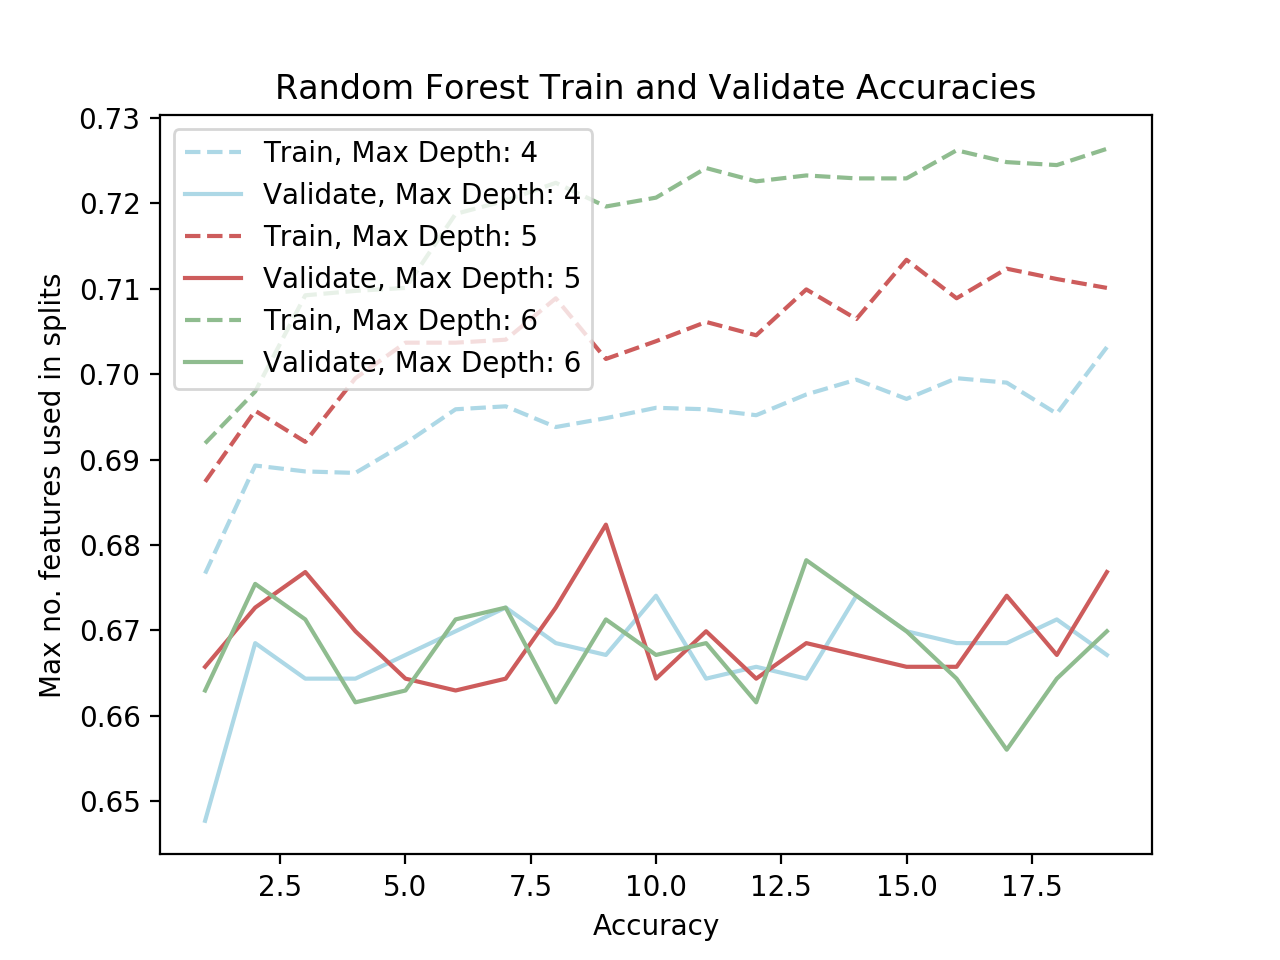
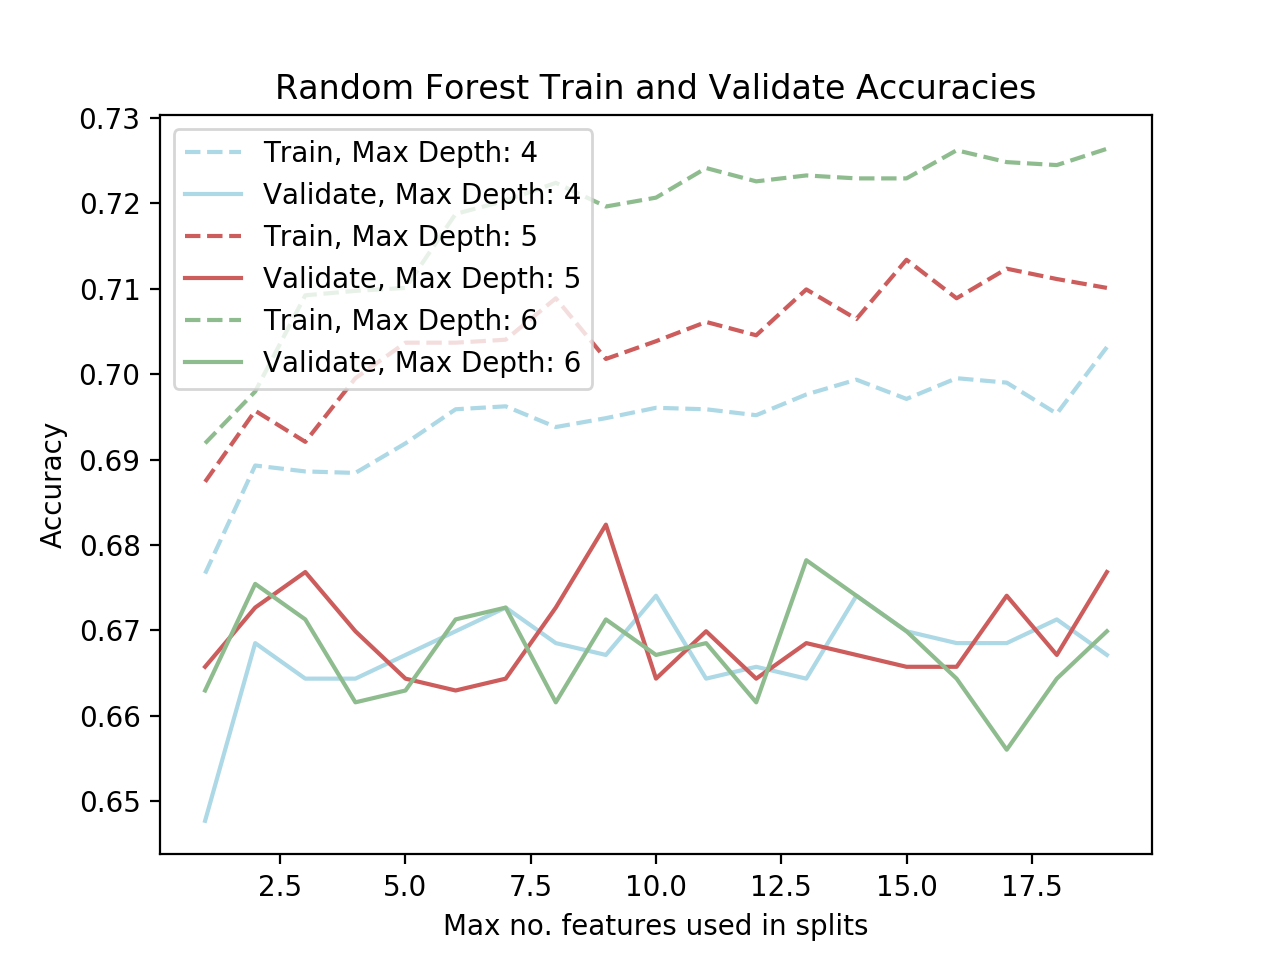
fixed random forest plot labelling. analyzed important coeffs for lin reg

Changed region(s): [[0.3438, 0.9375, 0.6875, 1.0], [0.0312, 0.2812, 0.0625, 0.5938], [0.0312, 0.625, 0.0625, 0.7188]]

diff --git a/random_forest.py b/random_forest.py
@@ -8,8 +8,8 @@ from matplotlib import pyplot as plt
 def train(X, y, max_depth=2, criterion='gini', max_features=None):
 	clf = RandomForestClassifier(n_estimators=10, max_depth=max_depth, criterion=criterion, random_state=0, max_features=max_features)
 	clf.fit(X, y)
-	print("Random Forest Trained. Feature Importances:")
-	print(clf.feature_importances_)
+	# print("Random Forest Trained. Feature Importances:")
+	# print(clf.feature_importances_)
 	return clf
 
 def predict(clf, x):
@@ -39,8 +39,8 @@ def plot_vs_max_depth(X_train, y_train, X_validate, y_validate):
 	plt.plot(range(1, max_max_depth+1), train_accuracies, color='r', label='Train')
 	plt.plot(range(1, max_max_depth+1), validation_accuracies, color='g', label='Validate')
 	plt.title("Random Forest Train and Validate Accuracies")
-	plt.xlabel("Accuracy")
-	plt.ylabel("Max Depth of Trees")
+	plt.ylabel("Accuracy")
+	plt.xlabel("Max Depth of Trees")
 	plt.legend(loc='upper left')
 	plt.show()
 
@@ -64,8 +64,8 @@ def plot_vs_max_depth_and_max_features(X_train, y_train, X_validate, y_validate)
 		plt.plot(range(1, max_max_features+1), train_accuracies, color=colors[i-min_max_depth], label=train_str, linestyle='dashed')
 		plt.plot(range(1, max_max_features+1), validation_accuracies, color=colors[i-min_max_depth], label=validate_str)
 	plt.title("Random Forest Train and Validate Accuracies")
-	plt.xlabel("Accuracy")
-	plt.ylabel("Max no. features used in splits")
+	plt.ylabel("Accuracy")
+	plt.xlabel("Max no. features used in splits")
 	plt.legend(loc='upper left')
 	plt.show()
 
@@ -74,11 +74,12 @@ def main():
 	X_validate, y_validate = utils.get_data(utils.VALIDATE_PATH)
 	X_test, y_test = utils.get_data(utils.TEST_PATH)
 
-	plot_vs_max_depth_and_max_features(X_train, y_train, X_validate, y_validate)
+	# plot_vs_max_depth_and_max_features(X_train, y_train, X_validate, y_validate)
+	# plot_vs_max_depth(X_train, y_train, X_validate, y_validate)
 
-	# clf = train(X_train, y_train, max_depth=5, max_features=2)
-	# print("Train Accuracy: ", evaluate(X_train, y_train, clf))
-	# print("Validation Accuracy: ", evaluate(X_validate, y_validate, clf))
+	clf = train(X_train, y_train, max_depth=5, max_features=None)
+	print("Train Accuracy: ", evaluate(X_train, y_train, clf))
+	print("Validation Accuracy: ", evaluate(X_validate, y_validate, clf))
 	# print("Test Accuracy: ", evaluate(X_test, y_test, clf))
 
 if __name__ == '__main__':

diff --git a/linear_regression.py b/linear_regression.py
@@ -4,6 +4,8 @@ from sklearn.linear_model import LinearRegression
 import math
 import utils
 
+RACE_BLIND = True
+
 def train(X, y):
 	return LinearRegression().fit(X, y)
 
@@ -22,17 +24,30 @@ def evaluate(X, y, reg):
 	return float(correct)/(correct + false)
 
 def main():
-	X_train, y_train = utils.get_data(utils.TRAIN_PATH)
-	X_validate, y_validate = utils.get_data(utils.VALIDATE_PATH)
-	X_test, y_test = utils.get_data(utils.TEST_PATH)
+	if RACE_BLIND:
+		X_train, y_train = utils.get_data(utils.TRAIN_PATH_RACE_BLIND)
+		X_validate, y_validate = utils.get_data(utils.VALIDATE_PATH_RACE_BLIND)
+		X_test, y_test = utils.get_data(utils.TEST_PATH_RACE_BLIND)
+		feature_names = utils.get_feature_names_race_blind()
+	else:
+		X_train, y_train = utils.get_data(utils.TRAIN_PATH)
+		X_validate, y_validate = utils.get_data(utils.VALIDATE_PATH)
+		X_test, y_test = utils.get_data(utils.TEST_PATH)
+		feature_names = utils.get_feature_names()
 
 	reg = train(X_train, y_train)
-	print("Coefficients:", reg.coef_)
+	print(feature_names)
+	coeff = reg.coef_
+	named_coeffs = []
+	for i in range(len(coeff)):
+		named_coeffs.append((feature_names[i], coeff[i]))
 
+	named_coeffs = sorted(named_coeffs, key=lambda pair: abs(pair[1]), reverse=True)
+	print("Coefficients:", named_coeffs)
 
 	print("Train Accuracy: ", evaluate(X_train, y_train, reg))
 	print("Validation Accuracy: ", evaluate(X_validate, y_validate, reg))
-	print("Test Accuracy: ", evaluate(X_test, y_test, reg))
+	# print("Test Accuracy: ", evaluate(X_test, y_test, reg))
 
 if __name__ == '__main__':
 	main()

diff --git a/utils.py b/utils.py
@@ -6,6 +6,10 @@ TRAIN_PATH = 'data/train.csv'
 VALIDATE_PATH = 'data/validate.csv'
 TEST_PATH = 'data/test.csv'
 
+TRAIN_PATH_RACE_BLIND = 'data/train_race_blind.csv'
+VALIDATE_PATH_RACE_BLIND = 'data/validate_race_blind.csv'
+TEST_PATH_RACE_BLIND = 'data/test_race_blind.csv'
+
 FEATURES_TO_IGNORE = ['id', 'first', 'last', 'c_charge_desc', 'r_charge_desc', 'vr_charge_degree', 'vr_charge_desc', 'event', 'age_cat', 'is_recid', 'v_decile_score', 'decile_score', 'vr_offense_date', 'is_violent_recid', 'r_offense_day_from_endjail', 'start', 'end', 'r_charge_degree']
 
 def trim_data(data_set):
@@ -31,6 +35,16 @@ def get_data(path):
 	set = csv.reader(file, delimiter=',')
 	array = np.array(list(set))[1:] # removes column names
 	return trim_data(array)
+
+def get_feature_names():
+	file = open(TRAIN_PATH, 'r')
+	set = csv.reader(file, delimiter=',')
+	return list(set)[0][len(FEATURES_TO_IGNORE):-1]
+
+def get_feature_names_race_blind():
+	file = open(TRAIN_PATH_RACE_BLIND, 'r')
+	set = csv.reader(file, delimiter=',')
+	return list(set)[0][len(FEATURES_TO_IGNORE):-1]
 
 def main():
 	train_race_blind = remove_race_feature(TEST_PATH)
